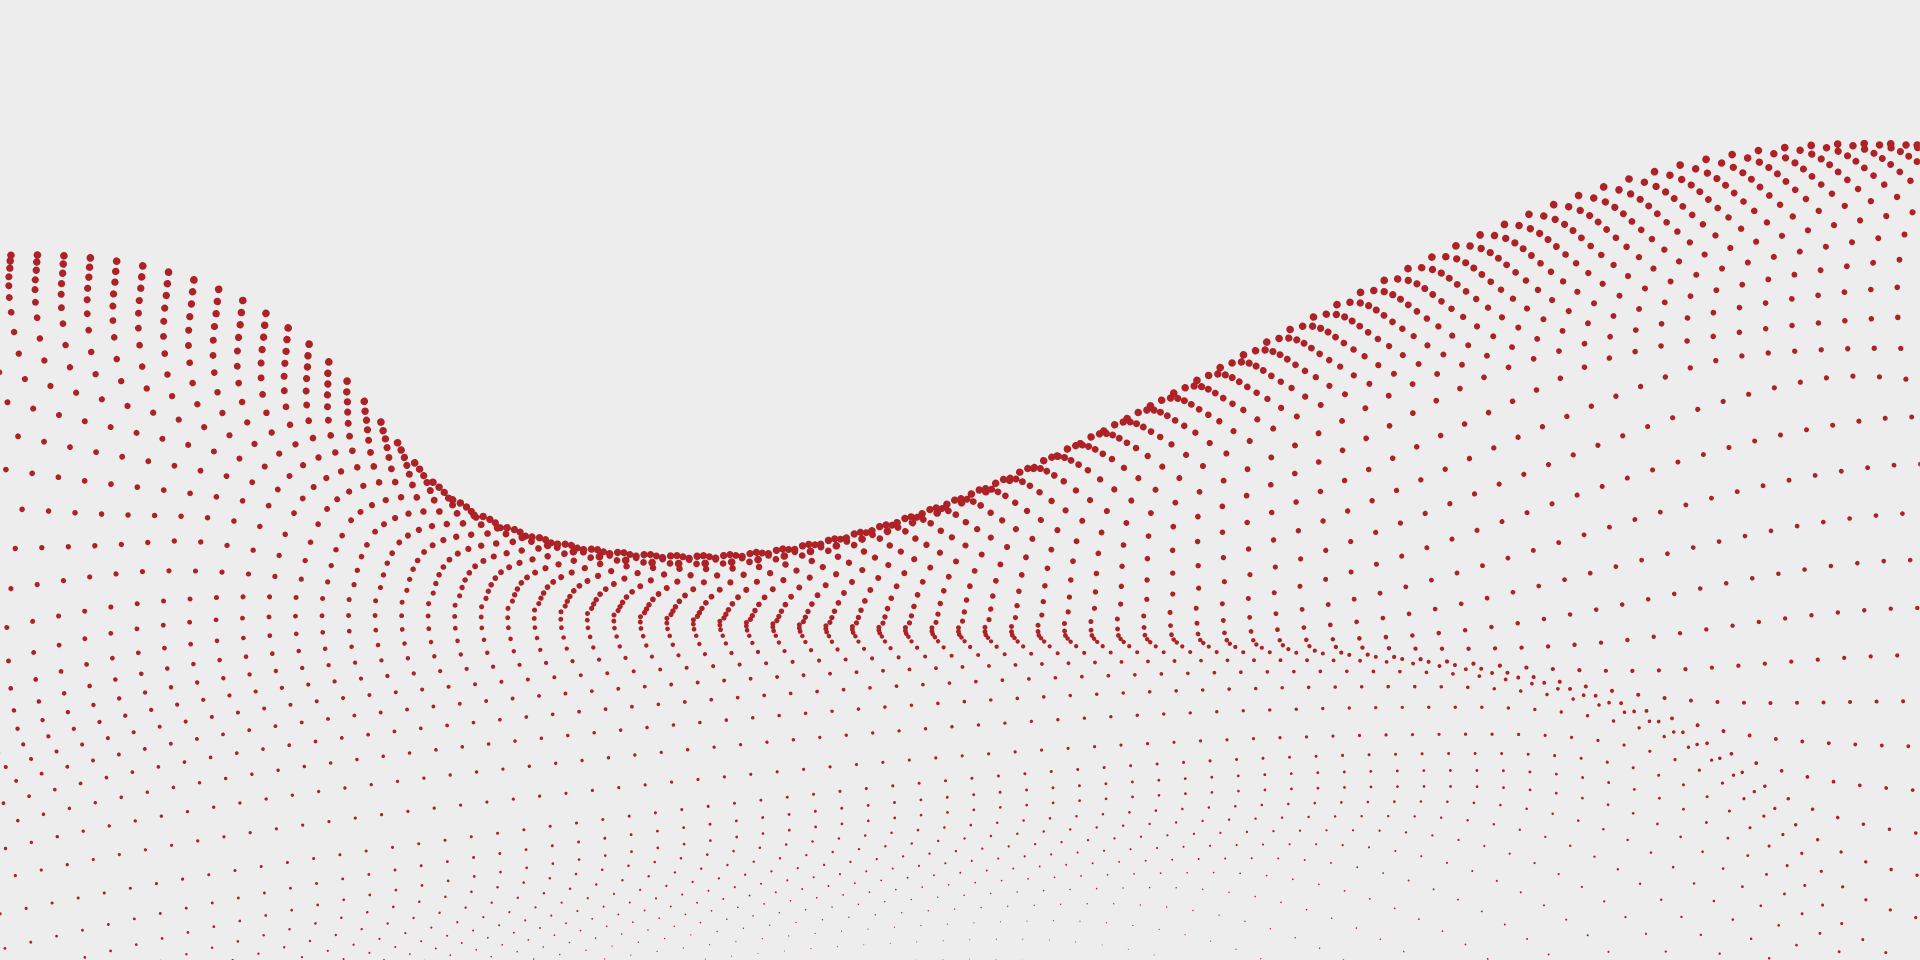
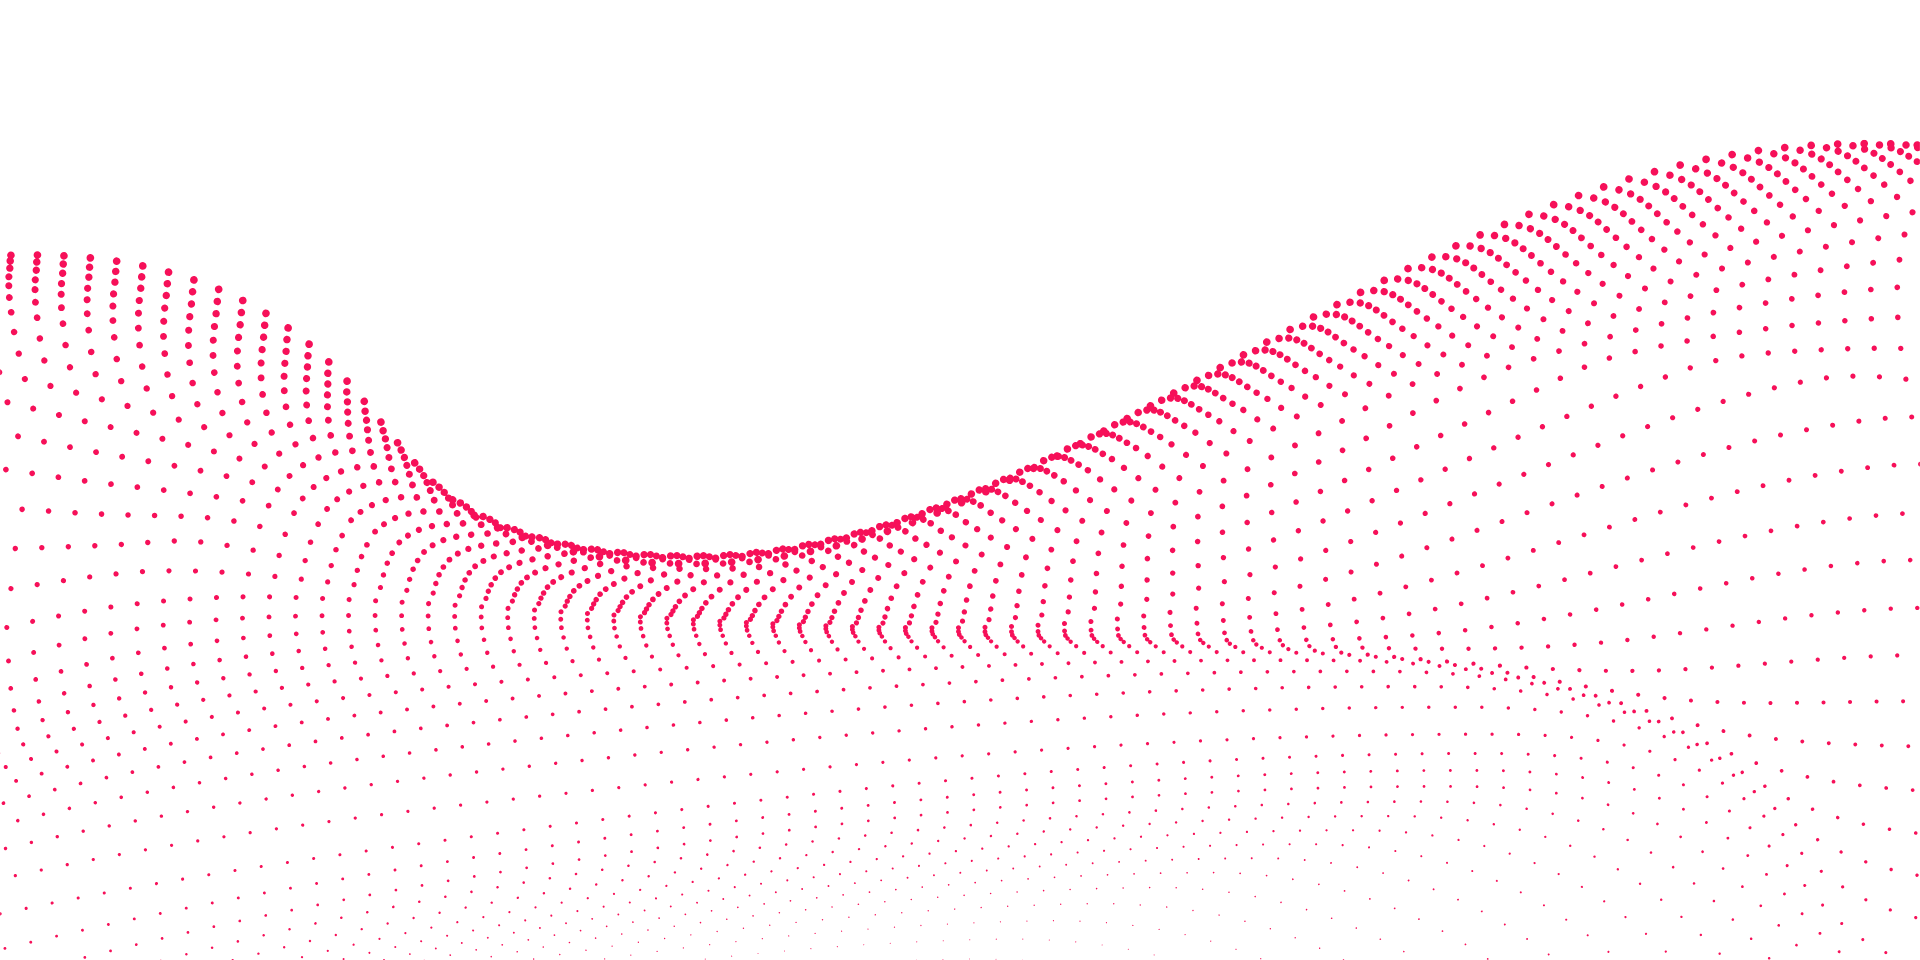
update styles and colors across various components; replace background image and enhance button aesthetics

Changed region(s): [[0.0, 0.125, 1.0, 0.6875], [0.75, 0.6875, 0.7812, 0.7188]]

diff --git a/orfarm/index-5.html b/orfarm/index-5.html
@@ -65,7 +65,7 @@
                             <div class="tpsearchbar__form">
                                 <form action="#">
                                     <input type="text" name="search" placeholder="Estoy interesado en...">
-                                    <button class="tpsearchbar__search-btn"><i class="icon-message"></i></button>
+                                    <button class="tpsearchbar__search-btn"><i class="icon-message "></i></button>
                                 </form>
                             </div>
                         </div>
@@ -249,7 +249,7 @@
    <div class="row">
       <div class="col-lg-12 text-center" style="margin-top: 5rem;">
          <div class="tpsection mb-20">
-            <h4 class="tpsection__title">Todo lo que tu planta frigorífica necesita, a pocas horas de distancia.</h4>
+            <h4 class="tpsection__title custom-color">Todo lo que tu planta frigorífica necesita, a pocas horas de distancia.</h4>
             <h5 class="text-shadow-white"> Tripas, grampas, repuestos, carragenina y proteína: la solución está en Córdoba, siempre listos para responder con rapidez.</h5>
          </div>
       </div>
@@ -334,14 +334,14 @@
          <!-- hero-area-start -->
  
 <!-- slider-area-end -->
-         <section class="hero-area tphero__bg" data-background="assets/img/banner/homeBG2.png">
+         <section class="hero-area tphero__bg" data-background="assets/img/banner/homeBG2.png" style="margin-top: 10rem;">
             <div class="container">
                <div class="row align-items-center">
                   <div class="col-lg-6 col-md-6 col-sm-7 order-2 order-sm-1 order-xs-1">
                      <div class="tphero__wrapper p-relative">
                         <h5 class="tphero__sub-title mb-40" style="color: black;">Innovación y Calidad en la Industria Alimenticia
                         </h5>
-                        <h5 class="tphero__title mb-25" style="color: black;">I + D en insumos alimenticios</h5>
+                        <h5 class="tphero__title mb-25 custom-color" >I + D en insumos alimenticios</h5>
 
                         <p class="text-shadow-white" style="color: black;">Desde 1989, en NABEL SRL ofrecemos insumos de calidad y soluciones adaptadas a las necesidades de la industria alimenticia. Trabajamos junto a empresas líderes para garantizar productos que mejoran la calidad de vida.</p>
                         <div class="tphero__btn">
@@ -353,8 +353,8 @@
                      </div>
                   </div>
                   <div class="col-lg-6 col-md-6 col-sm-5 order-1 order-sm-2 order-xs-2">
-                     <div class="tphero__thumb tphero__pt p-relative pt-80">
-                       
+                  <!--    <div class="tphero__thumb tphero__pt p-relative pt-80">
+
                         <div class="pera2 ">
                            <img data-depth="1" src="assets/img/shape/principal.png" alt="coca-shape-1">
                         </div>
@@ -369,7 +369,7 @@
                               <img data-depth="5" src="assets/img/shape/tree-leaf-7.png" alt="coca-shape-2">
                            </div>
                         </div>
-                     </div>
+                     </div>-->
                   </div>
                </div>
             </div>
@@ -389,7 +389,7 @@
          <div class="col-lg-6 col-md-12">
             <div class="tpproduct-feature p-relative pt-45 pb-40">
                <div class="tpsection tpfeature__content mb-35">
-                  <h3 class="tpabout__inner-title-2 mb-25">Quiénes somos</h3>
+                  <h3 class="tpabout__inner-title-2 mb-25 custom-color">Quiénes somos</h3>
                <p>Somos una compañía experimentada en el rubro insumos para la industria alimenticia, desde 1989 comenzamos la comercialización y distribución de los mismos, junto a reconocidas empresas nacionales y extranjeras, con quienes hemos brindado asesoramiento e insumos de calidad y conforme a las necesidades de nuestros clientes. Por ello, venimos realizando una continua investigación, desarrollo y aplicación (I+D+A) de los productos y servicios ofrecidos. </p>
                <p>
                   <br>
@@ -431,7 +431,7 @@
             <div class="col-lg-4 col-md-4 col-sm-6">
                <div class="tpabout__item text-center mb-40">
                   <div class="tpabout__icon mb-15">
-                     <i class="fa fa-check-circle fa-3x"></i>
+                     <i class="fa fa-check-circle fa-3x custom-color"></i>
                   </div>
                   <div class="tpabout__content">
                      <h4 class="tpabout__title">Insumos de Calidad</h4>
@@ -442,7 +442,7 @@
             <div class="col-lg-4 col-md-4 col-sm-6">
                <div class="tpabout__item text-center mb-40">
                   <div class="tpabout__icon mb-15">
-                     <i class="fa fa-lightbulb fa-3x"></i> <!-- Corregido -->
+                     <i class="fa fa-lightbulb fa-3x custom-color"></i> <!-- Corregido -->
                   </div>
                   <div class="tpabout__content">
                      <h4 class="tpabout__title">Asesoramiento Especializado</h4>
@@ -453,7 +453,7 @@
             <div class="col-lg-4 col-md-4 col-sm-6">
                <div class="tpabout__item text-center mb-40">
                   <div class="tpabout__icon mb-15">
-                     <i class="fa fa-cogs fa-3x"></i>
+                     <i class="fa fa-cogs fa-3x custom-color"></i>
                   </div>
                   <div class="tpabout__content">
                      <h4 class="tpabout__title">Innovación Continua</h4>

diff --git a/orfarm/assets/css/main.css b/orfarm/assets/css/main.css
@@ -466,7 +466,7 @@ input::placeholder {
 .tp-btn-4:hover,
 .whight-btn:hover {
   color: var(--tp-common-white);
-  background-color: #859A00;
+  background-color: #F61059;
 }
 
 .tp-btn-4 {
@@ -475,7 +475,7 @@ input::placeholder {
 .tp-btn-4:hover {
   color: var(--tp-common-white);
   pointer-events: auto;
-  background-color: #859A00;
+  background-color: #F61059;
 }
 
 .whight-btn {
@@ -537,7 +537,8 @@ input::placeholder {
 
 .banner-btn {
   background-color: var(--tp-common-white);
-  color: rgb(145, 3, 3);
+  color:#F61059;
+  border: 2px solid black;
 }
 
 .border-btn {
@@ -669,8 +670,12 @@ input::placeholder {
 .theme-bg-1 {
   background-color: var(--tp-theme-1);
 }
+
 .theme-bg-2 {
-  background: linear-gradient(to bottom, #FFFFFF 70%, #F61059 100%);
+  background-image: url('../img/banner/footer.png');
+  background-size: cover;  /* Asegura que la imagen cubra todo el fondo */
+  background-position: center;  /* Centra la imagen en el fondo */
+  background-repeat: no-repeat;  /* Evita que la imagen se repita */
 }
 
 
@@ -6326,7 +6331,7 @@ input::placeholder {
   color: var(--tp-common-white);
   text-transform: uppercase;
   padding: 12px 30px;
-  background-color: rgb(0, 0, 0);
+  background-color:#F61059;
   border-radius: 50px;
 }
 @media only screen and (min-width: 768px) and (max-width: 991px) {
@@ -7682,7 +7687,7 @@ p.checkout-coupon input[type=text]:focus {
   margin-bottom: 30px;
 }
 .tpfooter__widget p {
-  color: black;
+  color: var(--tp-common-white);
   font-size: 16px;
   margin-bottom: 0;
 }
@@ -7706,7 +7711,7 @@ p.checkout-coupon input[type=text]:focus {
 }
 .tpfooter__widget-time-info span {
   font-size: 16px;
-  color: black;
+  color: var(--tp-common-white);
   display: block;
 }
 .tpfooter__widget-time-info span b {
@@ -7729,7 +7734,7 @@ p.checkout-coupon input[type=text]:focus {
 }
 .tpfooter__widget-links ul li a {
   font-size: 16px;
-  color: black;
+  color: var(--tp-common-white);
   -webkit-transition: all 0.3s ease-out 0s;
   -moz-transition: all 0.3s ease-out 0s;
   -ms-transition: all 0.3s ease-out 0s;
@@ -7805,10 +7810,10 @@ p.checkout-coupon input[type=text]:focus {
 }
 .tpfooter__copyright-text {
   font-size: 16px;
-  color: var(--tp-grey-10);
+  color: var(--tp-common-white);
 }
 .tpfooter__copyright-text a {
-  color: var(--tp-heading-secondary);
+  color: rgb(0, 0, 0);
 }
 @media (max-width: 767px), only screen and (min-width: 576px) and (max-width: 767px) {
   .tpfooter__copyright-thumb {
@@ -7822,7 +7827,7 @@ p.checkout-coupon input[type=text]:focus {
   font-weight: 500;
   font-size:20px;
   line-height: 43px;
-  color: var(--tp-heading-secondary);
+  color: var(--tp-common-white);
   line-height: 1;
 }
 .tpfooter__phone-num:hover {
@@ -7913,8 +7918,6 @@ p.checkout-coupon input[type=text]:focus {
 }
 
 
-
-.imgShadow{
-  filter: drop-shadow(4px 4px 0px #000);
-  }
-  
+.custom-color {
+  color: #F61059;
+}

diff --git a/orfarm/assets/css/icon-dukamarket.css b/orfarm/assets/css/icon-dukamarket.css
@@ -981,6 +981,9 @@
 }
 .icon-message:before {
   content: "\ea3d";
+  color: #F61059;
+  font-size: 2rem; /* Ajusta el tamaño según lo necesites */
+
 }
 .icon-plus1:before {
   content: "\ea3e";
